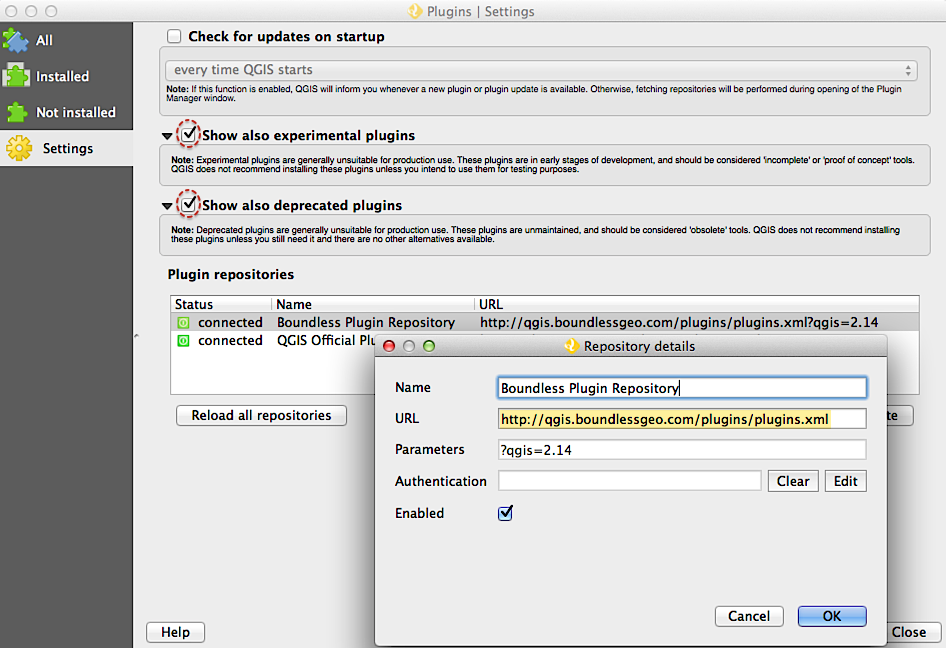
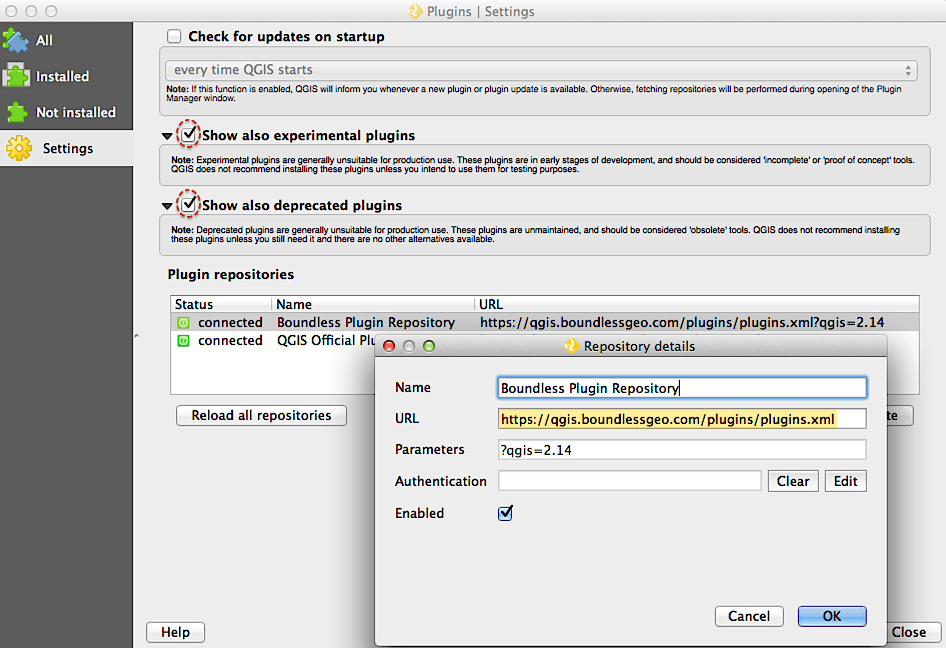
Update repo-docs with https access URL

Changed region(s): [[0.5518, 0.6173, 0.889, 0.679], [0.5211, 0.4938, 0.9503, 0.5247]]

diff --git a/repo-docs/source/index.rst b/repo-docs/source/index.rst
@@ -13,7 +13,7 @@ Using the repository in QGIS
 To use this repository in QGIS, add the following URL to Settings in the plugin
 manager:
 
-- http://qgis.boundlessgeo.com/plugins/plugins.xml
+- https://qgis.boundlessgeo.com/plugins/plugins.xml
 
 .. _Boundless: http://boundlessgeo.com
 .. _official QGIS repository: http://plugins.qgis.org/
